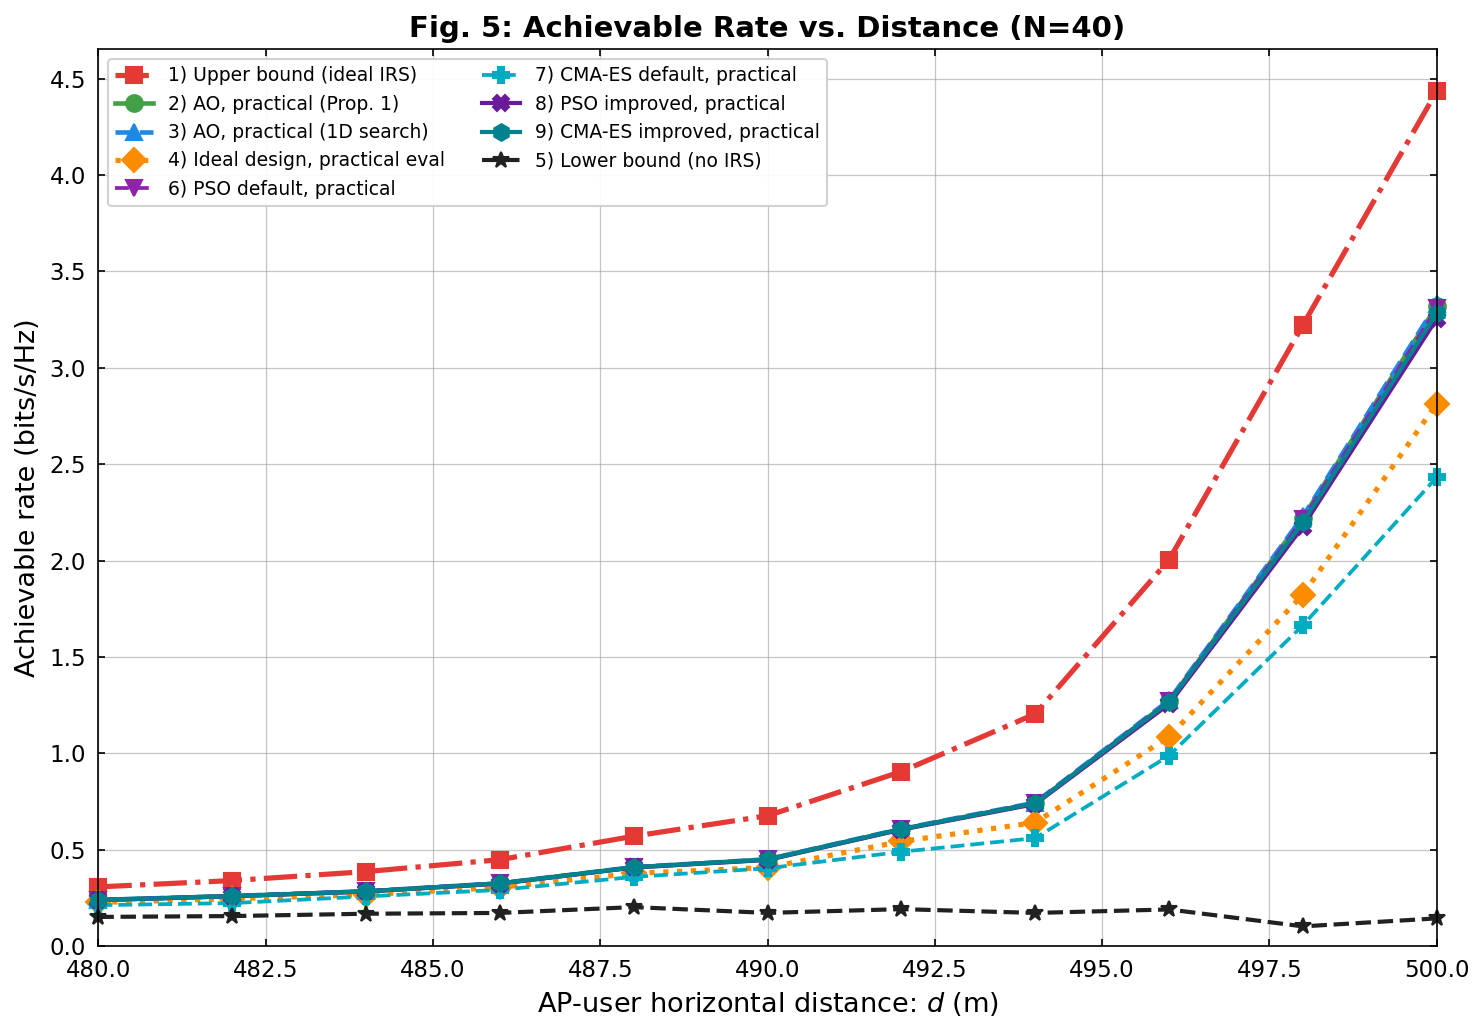
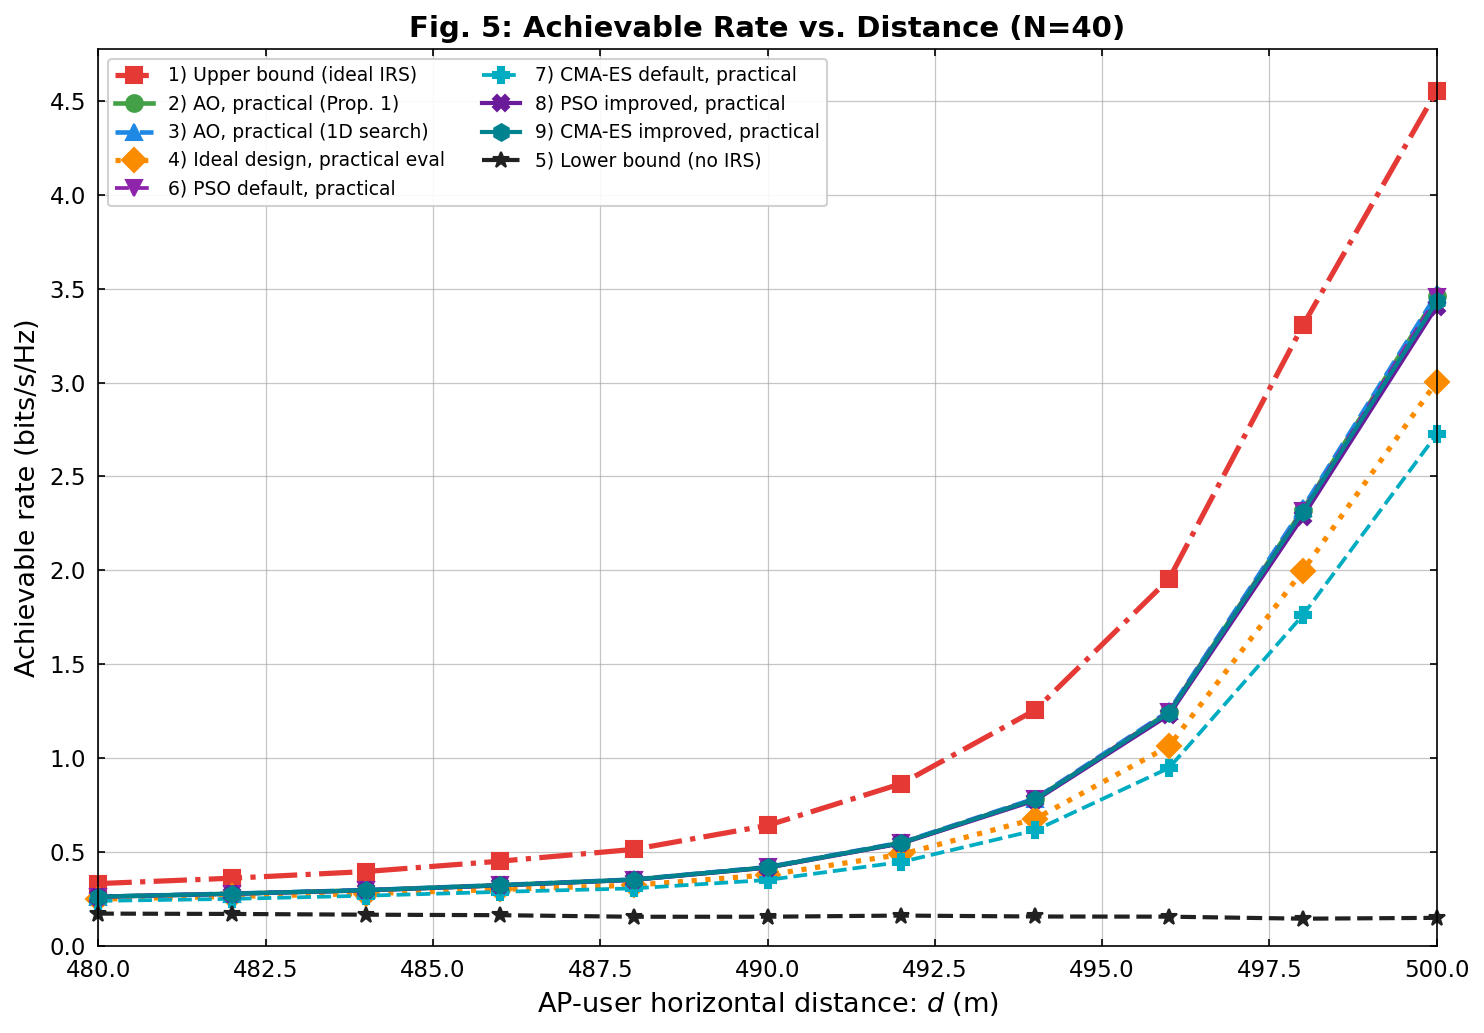
Update results with 300 realizations

diff --git a/README.md b/README.md
@@ -2,8 +2,8 @@
   <h1>IRS Phase Shift Optimization</h1>
   <p><strong>Maximizing Spectrum Efficiency in Intelligent Reflecting Surface-Aided Wireless Networks</strong></p>
   <p>
-    <a href="./PhaseShift_Model.pdf">📄 Read the Reference Paper</a> |
-    <a href="./PSO_Report.pdf">📄 Read the PSO Report</a>
+    <a href="./PhaseShift_Model.pdf">Read the Reference Paper</a> |
+    <a href="./PSO_Report.pdf">Read the PSO Report</a>
   </p>
 </div>
 
@@ -11,38 +11,57 @@
 
 ## Introduction
 
-Intelligent Reflecting Surfaces (IRS) have emerged as a disruptive technology capable of smartly reconfiguring the wireless propagation environment. By intelligently tuning the phase shifts of massive numbers of low-cost passive reflecting elements, an IRS can significantly enhance signal quality at the receiver.
+Intelligent Reflecting Surfaces (IRS) have emerged as a disruptive technology
+capable of smartly reconfiguring the wireless propagation environment. By
+intelligently tuning the phase shifts of massive numbers of low-cost passive
+reflecting elements, an IRS can significantly enhance signal quality at the
+receiver.
 
-This repository provides a comprehensive simulation framework to optimize the **achievable rate (spectrum efficiency)** of an IRS-aided wireless communication system. It features a deep comparative analysis between **ideal** reflection models and **practical** reflection models (where the reflection amplitude is fundamentally coupled with the phase shift).
+This repository provides a simulation framework to optimize the **achievable
+rate (spectrum efficiency)** of an IRS-aided wireless communication system. It
+compares **ideal** reflection models with **practical** reflection models where
+the reflection amplitude is coupled with the phase shift.
 
 ## Reference Paper
 
-The models and optimization schemes in this repository are inspired by state-of-the-art literature on practical IRS phase shift modeling. The codebase is designed to reproduce the findings that ignoring the amplitude-phase coupling in IRS elements leads to sub-optimal designs, and that specialized algorithms are required to unlock the true potential of practical IRS hardware.
+The models and optimization schemes in this repository are inspired by the
+reference paper on practical IRS phase shift modeling. The codebase is designed
+to reproduce the main findings that ignoring amplitude-phase coupling in IRS
+elements leads to sub-optimal designs, and that specialized algorithms are
+required to unlock the potential of practical IRS hardware.
 
 ## The Approach
 
-Optimizing the phase shifts of an IRS is a highly non-convex problem. The default simulation pipeline follows the reference paper's AO-based schemes:
+Optimizing the phase shifts of an IRS is a highly non-convex problem. The
+default simulation pipeline follows the reference paper's AO-based schemes:
 
 1. **Alternating Optimization (AO) [Baseline]**
-   A rigorous coordinate-descent approach for CPU execution.
+   A coordinate-descent approach for CPU execution.
 2. **Ideal-model design with practical evaluation**
-   A paper baseline showing the loss caused by ignoring amplitude-phase coupling during design.
+   A paper baseline showing the loss caused by ignoring amplitude-phase
+   coupling during design.
 3. **No-IRS lower bound and discrete phase-shift variants**
-   Baselines used to reproduce the paper's continuous and discrete phase-shift figures.
+   Baselines used to reproduce the paper's continuous and discrete phase-shift
+   figures.
 
-The continuous-phase figures also include default and improved PSO/CMA-ES variants for comparison against AO under the same channel realizations and practical phase-shift objective.
+The continuous-phase figures also include default and improved PSO/CMA-ES
+variants for comparison against AO under the same channel realizations and
+practical phase-shift objective.
 
 ## Current Pipeline
 
-The simulation pipeline keeps the paper settings fixed and adds PSO/CMA-ES only as comparison optimizers. The paper-aligned schemes are:
+The simulation pipeline keeps the paper settings fixed and adds PSO/CMA-ES only
+as comparison optimizers. The paper-aligned schemes are:
 
 - `upper_bound`: ideal phase-shift model.
 - `ao_practical_prop1`: AO with the practical model and Proposition 1.
 - `ao_practical_1d`: AO with the practical model and 1D search.
-- `ideal_design_practical_eval`: ideal-model design evaluated with the practical model.
+- `ideal_design_practical_eval`: ideal-model design evaluated with the
+  practical model.
 - `lower_bound`: no IRS.
 
-For Fig. 5 and Fig. 6, the following additional optimizers are run under the same channel realizations and practical phase-shift objective:
+For Fig. 5 and Fig. 6, the following additional optimizers are run under the
+same channel realizations and practical phase-shift objective:
 
 - `pso_default`: standard global-best PSO baseline.
 - `cmaes_default`: standard single-start CMA-ES baseline.
@@ -53,7 +72,9 @@ Fig. 7 remains the paper's discrete phase-shift comparison for `b = 1, 2, 3`.
 
 ## Generated Results
 
-Running the simulations writes all numerical results and generated figures to `results/`:
+Running the simulations writes all numerical results and generated figures to
+`results/`. The result snapshots below are generated from the current `.npz`
+files. Each figure uses `300` channel realizations per x-axis value.
 
 ```text
 results/results_fig5.npz
@@ -67,52 +88,113 @@ results/runtime_table_fig6.md
 results/runtime_table_fig7.md
 ```
 
-The runtime tables report mean runtime per channel realization at each x-axis value, plus overall mean runtime per realization and total CPU time for each scheme.
+The runtime tables report mean runtime per channel realization at each x-axis
+value, plus overall mean runtime per realization and total CPU time for each
+scheme.
+
+### Fig. 5: Achievable Rate vs. AP-User Distance
+
+![Fig. 5: Rate vs. Distance](results/fig5_rate_vs_distance.png)
+
+Detailed result table, in bit/s/Hz:
+
+| Scheme | 480 | 482 | 484 | 486 | 488 | 490 | 492 | 494 | 496 | 498 | 500 |
+| :--- | ---: | ---: | ---: | ---: | ---: | ---: | ---: | ---: | ---: | ---: | ---: |
+| upper_bound | 0.33 | 0.36 | 0.40 | 0.45 | 0.52 | 0.64 | 0.87 | 1.26 | 1.95 | 3.30 | 4.55 |
+| ao_practical_prop1 | 0.26 | 0.28 | 0.30 | 0.32 | 0.35 | 0.42 | 0.55 | 0.78 | 1.25 | 2.32 | 3.46 |
+| ao_practical_1d | 0.26 | 0.28 | 0.30 | 0.33 | 0.35 | 0.42 | 0.55 | 0.79 | 1.25 | 2.33 | 3.47 |
+| ideal_design_practical_eval | 0.25 | 0.26 | 0.28 | 0.30 | 0.32 | 0.38 | 0.49 | 0.68 | 1.06 | 2.00 | 3.00 |
+| lower_bound | 0.17 | 0.17 | 0.17 | 0.16 | 0.16 | 0.16 | 0.16 | 0.16 | 0.16 | 0.15 | 0.15 |
+| pso_default | 0.26 | 0.28 | 0.30 | 0.32 | 0.35 | 0.42 | 0.55 | 0.78 | 1.25 | 2.32 | 3.45 |
+| cmaes_default | 0.24 | 0.25 | 0.27 | 0.29 | 0.31 | 0.35 | 0.45 | 0.62 | 0.95 | 1.76 | 2.72 |
+| pso_practical | 0.26 | 0.28 | 0.30 | 0.32 | 0.35 | 0.42 | 0.55 | 0.78 | 1.23 | 2.29 | 3.40 |
+| cmaes_practical | 0.26 | 0.28 | 0.30 | 0.32 | 0.35 | 0.42 | 0.55 | 0.78 | 1.24 | 2.31 | 3.43 |
+
+Runtime comparison: [results/runtime_table_fig5.md](results/runtime_table_fig5.md)
+
+### Fig. 6: Achievable Rate vs. Number of IRS Elements
+
+![Fig. 6: Rate vs. Number of IRS Elements](results/fig6_rate_vs_N.png)
+
+Detailed result table, in bit/s/Hz:
+
+| Scheme | 10 | 20 | 30 | 40 | 50 | 60 | 70 | 80 |
+| :--- | ---: | ---: | ---: | ---: | ---: | ---: | ---: | ---: |
+| upper_bound | 1.01 | 1.92 | 2.65 | 3.27 | 3.82 | 4.25 | 4.66 | 5.01 |
+| ao_practical_prop1 | 0.66 | 1.27 | 1.78 | 2.28 | 2.76 | 3.14 | 3.50 | 3.83 |
+| ao_practical_1d | 0.66 | 1.27 | 1.79 | 2.29 | 2.77 | 3.15 | 3.51 | 3.84 |
+| ideal_design_practical_eval | 0.56 | 1.06 | 1.49 | 1.93 | 2.40 | 2.74 | 3.07 | 3.39 |
+| lower_bound | 0.16 | 0.14 | 0.14 | 0.14 | 0.15 | 0.16 | 0.16 | 0.15 |
+| pso_default | 0.66 | 1.27 | 1.79 | 2.27 | 2.74 | 3.09 | 3.42 | 3.72 |
+| cmaes_default | 0.64 | 1.16 | 1.52 | 1.76 | 1.92 | 2.10 | 2.12 | 2.06 |
+| pso_practical | 0.66 | 1.27 | 1.77 | 2.24 | 2.68 | 3.02 | 3.34 | 3.64 |
+| cmaes_practical | 0.66 | 1.27 | 1.78 | 2.26 | 2.73 | 3.09 | 3.42 | 3.74 |
+
+Runtime comparison: [results/runtime_table_fig6.md](results/runtime_table_fig6.md)
+
+### Fig. 7: Discrete Phase-Shift Comparison
+
+![Fig. 7: Discrete Phase Shifts](results/fig7_discrete_phases.png)
+
+Detailed result table, in bit/s/Hz:
+
+| Scheme | 400 | 420 | 440 | 460 | 480 | 498 |
+| :--- | ---: | ---: | ---: | ---: | ---: | ---: |
+| upper_bound | 0.35 | 0.29 | 0.26 | 0.26 | 0.33 | 3.28 |
+| lower_bound | 0.33 | 0.27 | 0.23 | 0.20 | 0.17 | 0.16 |
+| ao_practical_discrete_1 | 0.33 | 0.28 | 0.24 | 0.22 | 0.23 | 1.61 |
+| ao_ideal_discrete_1 | 0.34 | 0.28 | 0.25 | 0.24 | 0.27 | 2.43 |
+| ao_practical_discrete_2 | 0.34 | 0.28 | 0.24 | 0.23 | 0.25 | 1.99 |
+| ao_ideal_discrete_2 | 0.34 | 0.29 | 0.25 | 0.25 | 0.31 | 2.86 |
+| ao_practical_discrete_3 | 0.34 | 0.28 | 0.24 | 0.23 | 0.26 | 2.21 |
+| ao_ideal_discrete_3 | 0.34 | 0.29 | 0.25 | 0.25 | 0.31 | 2.92 |
+
+Runtime comparison: [results/runtime_table_fig7.md](results/runtime_table_fig7.md)
 
 ## Codebase Analysis & Architecture
 
 ```mermaid
 graph TD
     A[main.py] -->|Configures & runs| B(simulation.py)
-    
+
     B -->|Generates channels| C(channel_model.py)
     B -->|Evaluates rate/gain| D(objective.py)
     B -->|Optimizes phase shifts| E((algorithms/))
-    
+
     D -->|Applies reflection physics| F(phase_shift_model.py)
-    
+
     E -->|Alternating Optimization| G(ao.py)
     E -->|Particle Swarm| H(pso.py)
     E -->|CMA-ES| I(cmaes.py)
-    
-
 ```
 
-The repository is structured as follows to ensure modularity and scalability:
+The repository is structured as follows to keep the simulation pipeline modular:
 
 ```text
 .
-├── config.py                     # System parameters and optimizer settings
-├── main.py                       # CLI entry point for simulation figures
-├── simulation.py                 # Experiment orchestration
-├── plot_results.py               # Simulation plotting functions
-├── channel_model.py              # Wireless channel generation
-├── objective.py                  # Achievable-rate objective functions
-├── phase_shift_model.py          # Practical IRS reflection model
-├── algorithms/
-│   ├── ao.py                     # Alternating Optimization baseline
-│   ├── pso.py                    # Particle Swarm Optimization
-│   ├── cmaes.py                  # CMA-ES
-├── assets/                       # Optional published figures
-├── PSO_Report.pdf                # Compiled PSO report
-└── PhaseShift_Model.pdf          # Reference paper
+|-- config.py                     # System parameters and optimizer settings
+|-- main.py                       # CLI entry point for simulation figures
+|-- simulation.py                 # Experiment orchestration
+|-- plot_results.py               # Simulation plotting functions
+|-- channel_model.py              # Wireless channel generation
+|-- objective.py                  # Achievable-rate objective functions
+|-- phase_shift_model.py          # Practical IRS reflection model
+|-- algorithms/
+|   |-- ao.py                     # Alternating Optimization baseline
+|   |-- pso.py                    # Particle Swarm Optimization
+|   `-- cmaes.py                  # CMA-ES
+|-- results/                      # Generated figures, npz files, and runtime tables
+|-- assets/                       # Optional published figures
+|-- PSO_Report.pdf                # Compiled PSO report
+`-- PhaseShift_Model.pdf          # Reference paper
 ```
 
 ## How to Apply (Usage Guide)
 
 ### Prerequisites
 
-Ensure you have Python 3.10 or newer installed. Clone this repository and install the dependencies:
+Ensure you have Python 3.10 or newer installed. Clone this repository and
+install the dependencies:
 
 ```bash
 git clone https://github.com/tuankhai1/IRS-PHASE-SHIFT-OPTIMIZATION.git
@@ -122,7 +204,7 @@ python -m pip install -r requirements.txt
 
 ### Running the Simulations
 
-To run the full suite of simulations (1000 channel realizations per scenario):
+To run the full suite of simulations with the default realization count:
 
 ```bash
 python main.py
@@ -146,7 +228,10 @@ The base random seed is fixed in `config.py` for reproducibility.
 
 ### Outputs
 
-All simulation results are automatically serialized as `.npz` files and plotted as `.png` files inside the `results/` directory.
+All simulation results are automatically serialized as `.npz` files and plotted
+as `.png` files inside the `results/` directory. Runtime comparison tables are
+also written as Markdown files in the same directory.
 
 ---
-*Created for the advancement of Intelligent Reflecting Surface research.*
+
+Created for the advancement of Intelligent Reflecting Surface research.

diff --git a/results/runtime_table_fig5.md b/results/runtime_table_fig5.md
@@ -1,16 +1,16 @@
 Runtime table for `d_values`.
 
-- Channel realizations per x-value: `20`
-- Parallel wall time: `9.27 s`
+- Channel realizations per x-value: `300`
+- Parallel wall time: `175.19 s`
 
 | Scheme | 480 | 482 | 484 | 486 | 488 | 490 | 492 | 494 | 496 | 498 | 500 | Overall mean/seed (s) | Total CPU (s) |
 | :--- | ---: | ---: | ---: | ---: | ---: | ---: | ---: | ---: | ---: | ---: | ---: | ---: | ---: |
-| upper_bound | 0.002047 | 0.002159 | 0.001970 | 0.001831 | 0.002416 | 0.002731 | 0.002807 | 0.003807 | 0.007031 | 0.017070 | 0.021306 | 0.005925 | 1.30 |
-| ao_practical_prop1 | 0.006609 | 0.005499 | 0.005457 | 0.006006 | 0.006171 | 0.007891 | 0.007689 | 0.011785 | 0.018624 | 0.027376 | 0.027252 | 0.011851 | 2.61 |
-| ao_practical_1d | 0.011427 | 0.009513 | 0.008656 | 0.009109 | 0.012174 | 0.014414 | 0.014204 | 0.019391 | 0.028293 | 0.036513 | 0.041547 | 0.018658 | 4.10 |
-| ideal_design_practical_eval | 0.001528 | 0.002655 | 0.001664 | 0.001439 | 0.001999 | 0.002849 | 0.002610 | 0.004189 | 0.005001 | 0.018114 | 0.020356 | 0.005673 | 1.25 |
-| lower_bound | 0.000009 | 0.000009 | 0.000006 | 0.000006 | 0.000008 | 0.000009 | 0.000008 | 0.000007 | 0.000011 | 0.000009 | 0.000009 | 0.000008 | 0.00 |
-| pso_default | 0.052422 | 0.050090 | 0.045069 | 0.048214 | 0.048663 | 0.048526 | 0.047496 | 0.046312 | 0.050295 | 0.050104 | 0.051819 | 0.049001 | 10.78 |
-| cmaes_default | 0.139722 | 0.122260 | 0.122617 | 0.124832 | 0.121166 | 0.133840 | 0.128519 | 0.130334 | 0.123945 | 0.138079 | 0.127064 | 0.128398 | 28.25 |
-| pso_practical | 0.070414 | 0.073409 | 0.070017 | 0.065486 | 0.073587 | 0.066029 | 0.074126 | 0.071049 | 0.073779 | 0.074060 | 0.068084 | 0.070913 | 15.60 |
-| cmaes_practical | 0.163591 | 0.157370 | 0.165236 | 0.159641 | 0.163616 | 0.159650 | 0.164769 | 0.167111 | 0.166090 | 0.164787 | 0.159801 | 0.162878 | 35.83 |
+| upper_bound | 0.003181 | 0.004262 | 0.004458 | 0.004870 | 0.002979 | 0.003554 | 0.004577 | 0.006159 | 0.010004 | 0.015004 | 0.022857 | 0.007446 | 24.57 |
+| ao_practical_prop1 | 0.008498 | 0.010941 | 0.011661 | 0.012384 | 0.007629 | 0.009483 | 0.011617 | 0.014942 | 0.020608 | 0.027524 | 0.030147 | 0.015040 | 49.63 |
+| ao_practical_1d | 0.015303 | 0.019301 | 0.020314 | 0.021380 | 0.014043 | 0.017545 | 0.021219 | 0.026840 | 0.036674 | 0.047192 | 0.050807 | 0.026420 | 87.19 |
+| ideal_design_practical_eval | 0.003135 | 0.004316 | 0.004393 | 0.004757 | 0.002869 | 0.003622 | 0.004472 | 0.006199 | 0.009506 | 0.015807 | 0.023333 | 0.007492 | 24.72 |
+| lower_bound | 0.000016 | 0.000023 | 0.000017 | 0.000016 | 0.000009 | 0.000010 | 0.000010 | 0.000010 | 0.000011 | 0.000010 | 0.000011 | 0.000013 | 0.04 |
+| pso_default | 0.077191 | 0.085091 | 0.086617 | 0.082418 | 0.056468 | 0.058748 | 0.059862 | 0.060830 | 0.061957 | 0.060338 | 0.061057 | 0.068234 | 225.17 |
+| cmaes_default | 0.208142 | 0.227340 | 0.229773 | 0.217764 | 0.142726 | 0.150697 | 0.152988 | 0.154996 | 0.159574 | 0.151923 | 0.154407 | 0.177303 | 585.10 |
+| pso_practical | 0.117407 | 0.129552 | 0.131582 | 0.124512 | 0.080077 | 0.086029 | 0.085902 | 0.087664 | 0.088747 | 0.087674 | 0.087223 | 0.100579 | 331.91 |
+| cmaes_practical | 0.266457 | 0.295699 | 0.302276 | 0.279835 | 0.186450 | 0.196315 | 0.195412 | 0.200748 | 0.207785 | 0.197858 | 0.200864 | 0.229973 | 758.91 |

diff --git a/results/runtime_table_fig6.md b/results/runtime_table_fig6.md
@@ -1,16 +1,16 @@
 Runtime table for `N_values`.
 
-- Channel realizations per x-value: `20`
-- Parallel wall time: `12.94 s`
+- Channel realizations per x-value: `300`
+- Parallel wall time: `197.53 s`
 
 | Scheme | 10 | 20 | 30 | 40 | 50 | 60 | 70 | 80 | Overall mean/seed (s) | Total CPU (s) |
 | :--- | ---: | ---: | ---: | ---: | ---: | ---: | ---: | ---: | ---: | ---: |
-| upper_bound | 0.001447 | 0.005817 | 0.011175 | 0.013708 | 0.015888 | 0.026771 | 0.033715 | 0.048223 | 0.019593 | 3.13 |
-| ao_practical_prop1 | 0.003170 | 0.010922 | 0.019340 | 0.027270 | 0.029372 | 0.034722 | 0.038035 | 0.059028 | 0.027732 | 4.44 |
-| ao_practical_1d | 0.004871 | 0.017781 | 0.028380 | 0.054826 | 0.049358 | 0.066601 | 0.084356 | 0.111725 | 0.052237 | 8.36 |
-| ideal_design_practical_eval | 0.001149 | 0.006214 | 0.009829 | 0.013667 | 0.016023 | 0.025291 | 0.031571 | 0.051027 | 0.019346 | 3.10 |
-| lower_bound | 0.000008 | 0.000011 | 0.000009 | 0.000008 | 0.000009 | 0.000010 | 0.000009 | 0.000010 | 0.000009 | 0.00 |
-| pso_default | 0.020566 | 0.034473 | 0.041865 | 0.051275 | 0.065681 | 0.075135 | 0.085678 | 0.120035 | 0.061839 | 9.89 |
-| cmaes_default | 0.052173 | 0.070793 | 0.099672 | 0.138552 | 0.177841 | 0.226181 | 0.303460 | 1.085436 | 0.269263 | 43.08 |
-| pso_practical | 0.042087 | 0.055657 | 0.063026 | 0.074685 | 0.086969 | 0.101669 | 0.113253 | 0.146703 | 0.085506 | 13.68 |
-| cmaes_practical | 0.064799 | 0.092321 | 0.133308 | 0.172427 | 0.240343 | 0.295242 | 0.376378 | 1.135605 | 0.313803 | 50.21 |
+| upper_bound | 0.001681 | 0.005283 | 0.010470 | 0.015591 | 0.023393 | 0.030196 | 0.039560 | 0.060536 | 0.023339 | 56.01 |
+| ao_practical_prop1 | 0.003606 | 0.010010 | 0.018555 | 0.028944 | 0.035393 | 0.044991 | 0.059526 | 0.101354 | 0.037797 | 90.71 |
+| ao_practical_1d | 0.005587 | 0.016407 | 0.033787 | 0.047223 | 0.062739 | 0.082424 | 0.112515 | 0.179911 | 0.067574 | 162.18 |
+| ideal_design_practical_eval | 0.001662 | 0.005281 | 0.009987 | 0.015111 | 0.024098 | 0.030218 | 0.039114 | 0.067506 | 0.024122 | 57.89 |
+| lower_bound | 0.000010 | 0.000010 | 0.000010 | 0.000010 | 0.000011 | 0.000010 | 0.000010 | 0.000018 | 0.000011 | 0.03 |
+| pso_default | 0.023352 | 0.035853 | 0.048164 | 0.059638 | 0.073798 | 0.085363 | 0.093476 | 0.151345 | 0.071374 | 171.30 |
+| cmaes_default | 0.061212 | 0.080743 | 0.114368 | 0.155417 | 0.200903 | 0.257895 | 0.313948 | 1.201873 | 0.298295 | 715.91 |
+| pso_practical | 0.047918 | 0.061695 | 0.074190 | 0.087192 | 0.101692 | 0.115354 | 0.118138 | 0.189102 | 0.099410 | 238.58 |
+| cmaes_practical | 0.075190 | 0.101928 | 0.151945 | 0.201481 | 0.262200 | 0.328603 | 0.408327 | 1.308003 | 0.354710 | 851.30 |

diff --git a/results/runtime_table_fig7.md b/results/runtime_table_fig7.md
@@ -1,15 +1,15 @@
 Runtime table for `d_values`.
 
-- Channel realizations per x-value: `20`
-- Parallel wall time: `1.03 s`
+- Channel realizations per x-value: `300`
+- Parallel wall time: `4.54 s`
 
 | Scheme | 400 | 420 | 440 | 460 | 480 | 498 | Overall mean/seed (s) | Total CPU (s) |
 | :--- | ---: | ---: | ---: | ---: | ---: | ---: | ---: | ---: |
-| upper_bound | 0.001136 | 0.001151 | 0.001350 | 0.001314 | 0.001930 | 0.012283 | 0.003194 | 0.38 |
-| lower_bound | 0.000013 | 0.000009 | 0.000012 | 0.000009 | 0.000009 | 0.000009 | 0.000010 | 0.00 |
-| ao_practical_discrete_1 | 0.002478 | 0.002263 | 0.002581 | 0.002765 | 0.003524 | 0.004020 | 0.002939 | 0.35 |
-| ao_ideal_discrete_1 | 0.002139 | 0.002100 | 0.002003 | 0.002816 | 0.003145 | 0.003782 | 0.002664 | 0.32 |
-| ao_practical_discrete_2 | 0.002631 | 0.002567 | 0.002420 | 0.003041 | 0.003425 | 0.004794 | 0.003146 | 0.38 |
-| ao_ideal_discrete_2 | 0.002166 | 0.002579 | 0.002554 | 0.002880 | 0.003801 | 0.004836 | 0.003136 | 0.38 |
-| ao_practical_discrete_3 | 0.002308 | 0.002875 | 0.003014 | 0.003292 | 0.004358 | 0.005297 | 0.003524 | 0.42 |
-| ao_ideal_discrete_3 | 0.002450 | 0.002732 | 0.002913 | 0.003082 | 0.003597 | 0.006211 | 0.003497 | 0.42 |
+| upper_bound | 0.001181 | 0.001366 | 0.001361 | 0.001445 | 0.002018 | 0.015111 | 0.003747 | 6.74 |
+| lower_bound | 0.000010 | 0.000010 | 0.000011 | 0.000009 | 0.000009 | 0.000009 | 0.000010 | 0.02 |
+| ao_practical_discrete_1 | 0.002672 | 0.002863 | 0.002824 | 0.002878 | 0.003170 | 0.004508 | 0.003153 | 5.67 |
+| ao_ideal_discrete_1 | 0.002383 | 0.002517 | 0.002507 | 0.002594 | 0.003072 | 0.004070 | 0.002857 | 5.14 |
+| ao_practical_discrete_2 | 0.002787 | 0.002997 | 0.002999 | 0.003126 | 0.003608 | 0.005313 | 0.003472 | 6.25 |
+| ao_ideal_discrete_2 | 0.002595 | 0.002628 | 0.002807 | 0.002887 | 0.003515 | 0.005289 | 0.003287 | 5.92 |
+| ao_practical_discrete_3 | 0.002863 | 0.003084 | 0.003151 | 0.003323 | 0.004005 | 0.006774 | 0.003867 | 6.96 |
+| ao_ideal_discrete_3 | 0.002699 | 0.002944 | 0.002901 | 0.003181 | 0.003815 | 0.007727 | 0.003878 | 6.98 |